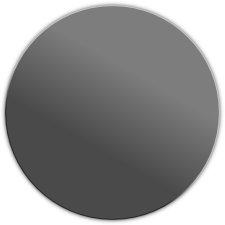
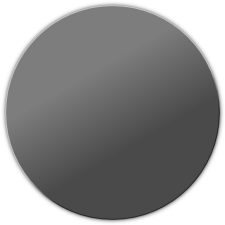
Сделан зеркальный дизайн
Осталось допилить разные мелочи

Changed region(s): [[0.0, 0.2489, 0.3422, 0.8711], [0.6533, 0.2489, 0.9956, 0.7467], [0.7778, 0.7467, 0.9022, 0.9022]]

diff --git a/qml/QtMon/main.qml b/qml/QtMon/main.qml
@@ -342,7 +342,7 @@ Rectangle {
     Rectangle {
         id: panelLeft
 
-        width: 144
+        width: 151
         height: 480
         color: "#00000000"
         anchors.left: parent.left
@@ -356,14 +356,11 @@ Rectangle {
             source: "Slices/Panel-Left.png"
         }
 
-        //------------------------------
-
-
         // Очень плохо, что это здесь находится!!!
         Image {
             id: alsnSwitchBackgroundCircle
-            anchors.left: parent.right
-            anchors.leftMargin: -60
+            anchors.right: parent.left
+            anchors.rightMargin: -60
             anchors.top: parent.top
             anchors.topMargin: -height/2 + 60
 
@@ -376,13 +373,13 @@ Rectangle {
             y: 104
             anchors.right: parent.right
             anchors.verticalCenter: parent.verticalCenter
-            source: "Slices/Panel-Right-Middle.png"
+            source: "Slices/Panel-Left-Middle.png"
         }
 
         Rectangle {
             width: 6
             color: "#4999c9"
-            anchors.left: parent.left
+            anchors.right: parent.right
             anchors.bottom: parent.bottom
             anchors.top: parent.top
         }
@@ -402,7 +399,7 @@ Rectangle {
                 Rectangle {
                     id: alsnTextBox
                     color: "#00000000"
-                    anchors.right: alsnSwitch.left
+                    anchors.left: alsnSwitch.right
                     anchors.verticalCenter: parent.verticalCenter
                     anchors.verticalCenterOffset: -3
                     height: alsnTextBoxText.height + alsnTextBoxLine.height + alsnTextBoxFreq.height
@@ -446,12 +443,12 @@ Rectangle {
 
                     anchors.top: parent.top
                     anchors.topMargin: -height/2 + 60
-                    anchors.left: parent.right
-                    anchors.leftMargin: -60
+                    anchors.right: parent.left
+                    anchors.rightMargin: -60
                     width: alsnSwitchBackgroundCircle.width
                     height: alsnSwitchBackgroundCircle.height
 
-                    property real radius: 102
+                    property real radius: 100
                     property real angle: 15
                     property string objColor: "#ffdddddd"
 
@@ -463,8 +460,8 @@ Rectangle {
                             property real myRot: (1 - index) * alsnSwitch.angle
                             property int freq: modelData
 
-                            x: alsnSwitch.width/2 - alsnSwitch.radius * Math.cos(myRot / 180 * Math.PI)
-                            y: alsnSwitch.height/2 - alsnSwitch.radius * Math.sin(myRot / 180 * Math.PI)
+                            x: alsnSwitch.width/2 + alsnSwitch.radius * Math.cos(myRot / 180 * Math.PI)
+                            y: alsnSwitch.height/2 + alsnSwitch.radius * Math.sin(myRot / 180 * Math.PI)
                             rotation: myRot
 
                             color: alsnSwitch.objColor
@@ -474,8 +471,8 @@ Rectangle {
 
                             Text {
                                 anchors.verticalCenter: parent.verticalCenter
-                                anchors.left: parent.right
-                                anchors.leftMargin: 6
+                                anchors.right: parent.left
+                                anchors.rightMargin: 4
 
                                 text: parent.freq
                                 font.pixelSize: 14
@@ -526,7 +523,7 @@ Rectangle {
                     id: page1indicator
                     width: 6
                     color: "#4999c9"
-                    anchors.left: parent.left
+                    anchors.right: parent.right
                     anchors.bottom: parent.bottom
                     anchors.bottomMargin: 1
                     anchors.top: parent.top
@@ -598,7 +595,7 @@ Rectangle {
                         id: page2indicator
                         width: 6
                         color: "#4999c9"
-                        anchors.left: parent.left
+                        anchors.right: parent.right
                         anchors.bottom: parent.bottom
                         anchors.bottomMargin: -3
                         anchors.top: parent.top
